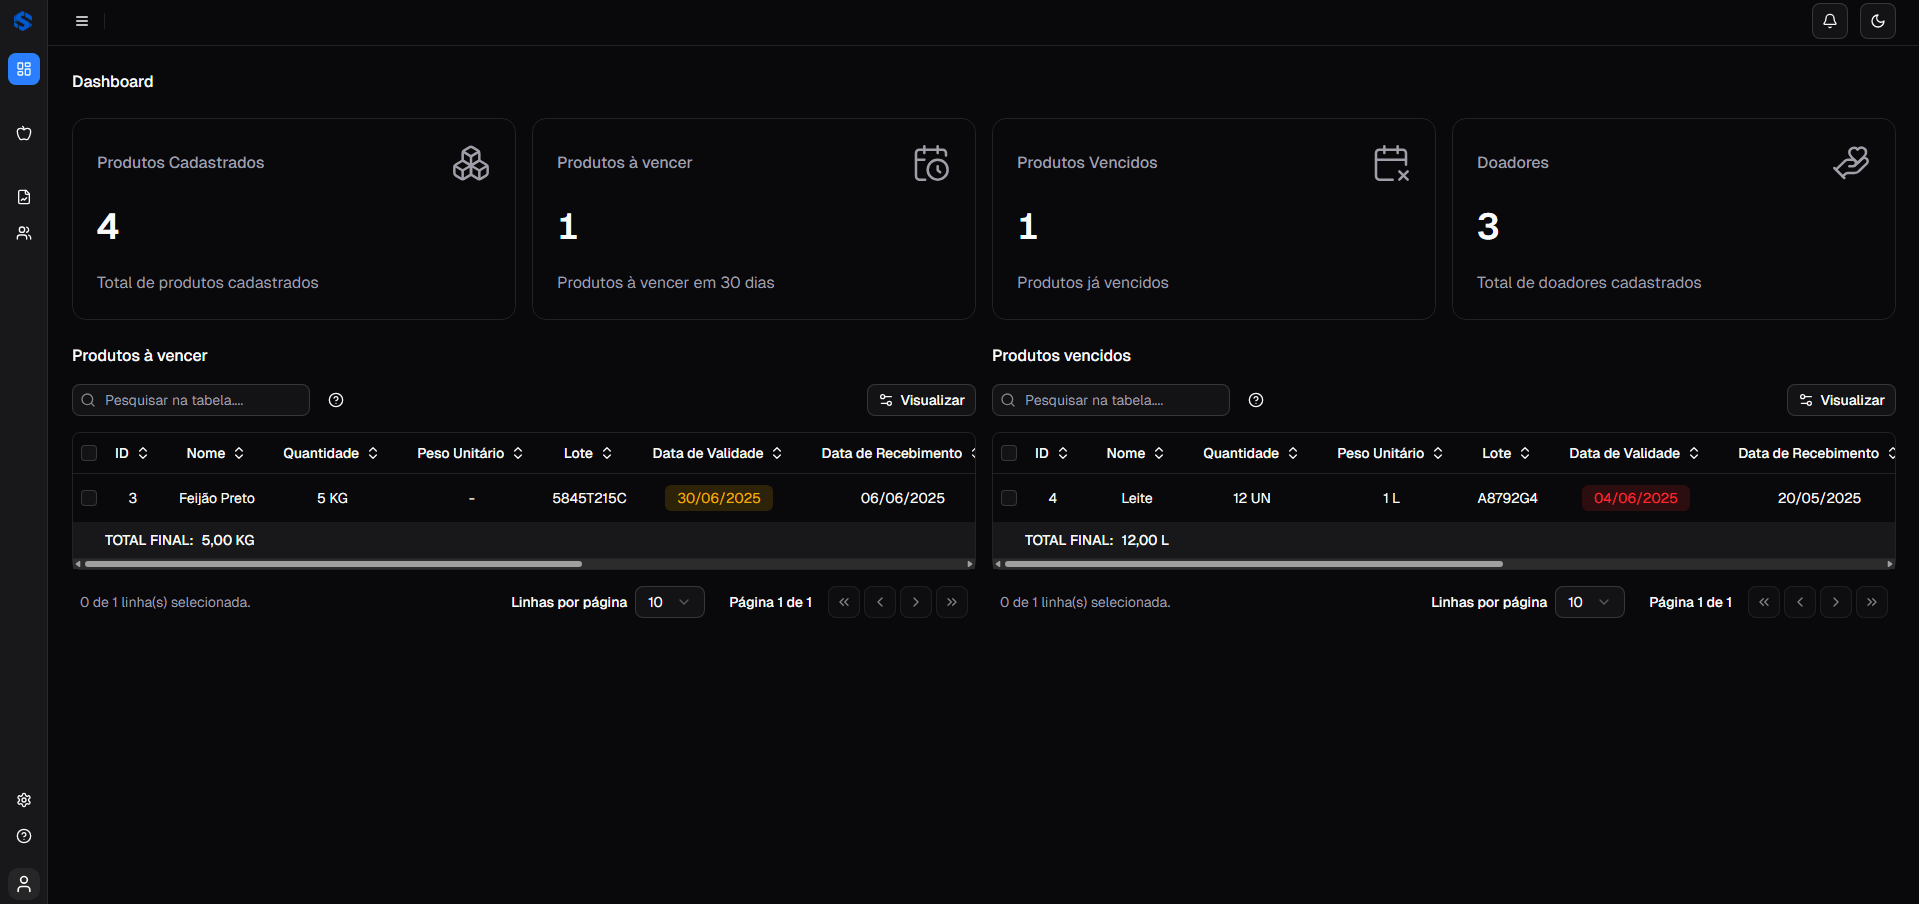
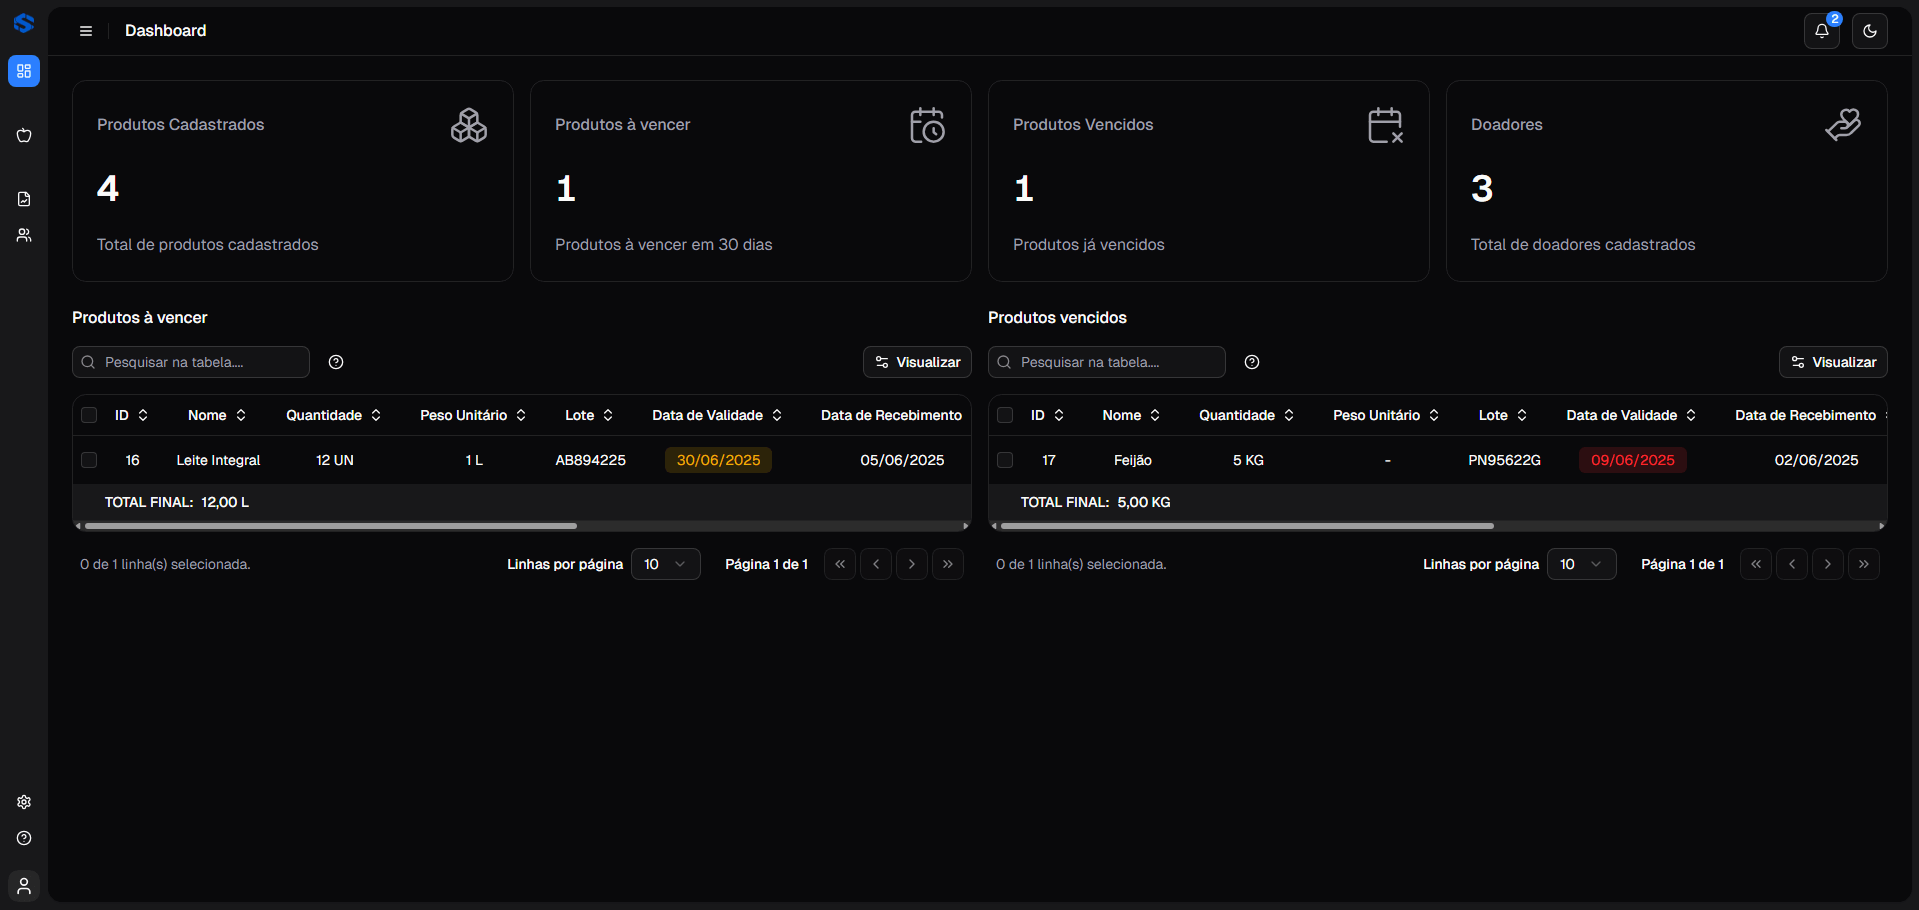
fix: melhorias no layout do sistema e corrige bugs

diff --git a/components/layout/site-header.tsx b/components/layout/site-header.tsx
@@ -1,18 +1,26 @@
+"use client";
+
 import { Separator } from "@/components/ui/separator";
 import { SidebarTrigger } from "@/components/ui/sidebar";
 import { ThemeModeButton } from "@/components/shared/theme-mode-button";
 import { AlertButton } from "@/components/alerts/alert-button";
+import { pageTitles } from "@/routes";
+import { usePathname } from "next/navigation";
 
 export function SiteHeader() {
+  const pathname = usePathname();
+  const headerTitle = pageTitles[pathname] || "SmartStock";
+
   return (
     <header className="flex h-(--header-height) shrink-0 items-center gap-2 border-b transition-[width,height] ease-linear group-has-data-[collapsible=icon]/sidebar-wrapper:h-(--header-height)">
       <div className="flex w-full items-center justify-between gap-1 px-4 lg:gap-2 lg:px-6">
-        <div className="flex items-center">
-          <SidebarTrigger className="-ml-1" />
+        <div className="flex items-center gap-2">
+          <SidebarTrigger className="" />
           <Separator
             orientation="vertical"
-            className="mx-2 data-[orientation=vertical]:h-4"
+            className="data-[orientation=vertical]:h-4"
           />
+          <h1 className="text-base font-medium ml-2">{headerTitle}</h1>
         </div>
         <div className="flex items-center gap-3">
           <AlertButton></AlertButton>

diff --git a/components/layout/app-sidebar.tsx b/components/layout/app-sidebar.tsx
@@ -10,7 +10,6 @@ import {
   SidebarContent,
   SidebarFooter,
   SidebarHeader,
-  SidebarRail,
   SidebarMenuButton,
 } from "@/components/ui/sidebar";
 import { NavBottom } from "@/components/layout/nav-bottom";
@@ -46,7 +45,7 @@ const data = {
 
 export function AppSidebar({ ...props }: React.ComponentProps<typeof Sidebar>) {
   return (
-    <Sidebar collapsible="icon" {...props}>
+    <Sidebar collapsible="icon" {...props} className="border-0!">
       <SidebarHeader>
         <SidebarMenuButton
           asChild
@@ -54,7 +53,7 @@ export function AppSidebar({ ...props }: React.ComponentProps<typeof Sidebar>) {
         >
           <Link href="/dashboard">
             <LogoWithText
-              imageSize="size-5"
+              imageSize="size-5 min-w-5"
               textSize="text-base"
               containerClasses="justify-around! flex-nowrap!"
             />
@@ -70,7 +69,6 @@ export function AppSidebar({ ...props }: React.ComponentProps<typeof Sidebar>) {
       <SidebarFooter>
         <UserButton />
       </SidebarFooter>
-      <SidebarRail />
     </Sidebar>
   );
 }

diff --git a/components/tables/data-table-reports.tsx b/components/tables/data-table-reports.tsx
@@ -207,7 +207,7 @@ export function DataTableReport<TData>({
       </div>
 
       <div
-        className="styleForPrint overflow-auto rounded-md border"
+        className="styleForPrint rounded-xl border overflow-auto"
         ref={contentRef}
       >
         <div className="showForPrint space-y-3 mb-6">
@@ -233,10 +233,10 @@ export function DataTableReport<TData>({
         <Table className="overflow-hidden!">
           <TableHeader>
             {table.getHeaderGroups().map((headerGroup) => (
-              <TableRow key={headerGroup.id}>
+              <TableRow key={headerGroup.id} className="text-center!">
                 {headerGroup.headers.map((header) => {
                   return (
-                    <TableHead key={header.id}>
+                    <TableHead key={header.id} className="text-center!">
                       {header.isPlaceholder
                         ? null
                         : flexRender(

diff --git a/app/(protected)/settings/page.tsx b/app/(protected)/settings/page.tsx
@@ -12,10 +12,9 @@ export default function SettingsPage() {
     <div className="flex flex-1 flex-col">
       <div className="@container/main flex flex-1 flex-col gap-2">
         <div className="flex flex-col gap-4 py-4 md:gap-6 md:py-6">
-          <h1 className="text-base font-medium px-4 lg:px-6">Configurações</h1>
           <div className="px-4 md:px-6">
             <div className="flex justify-center">
-              <div className="grid gap-6 border rounded-md p-10 w-full md:max-w-[650px]">
+              <div className="grid gap-6 border rounded-xl p-10 w-full md:max-w-[650px]">
                 <div className="grid gap-2">
                     <h2 className="text-lg font-semibold flex items-center">
                       Editar Configurações da Conta

diff --git a/components/tables/data-table-products.tsx b/components/tables/data-table-products.tsx
@@ -127,14 +127,14 @@ export function DataTableProducts<TData, TValue>({
         )}
       </div>
 
-      <div className="rounded-md border">
+      <div className="rounded-xl border overflow-hidden">
         <Table>
           <TableHeader>
             {table.getHeaderGroups().map((headerGroup) => (
-              <TableRow key={headerGroup.id} className="text-center">
+              <TableRow key={headerGroup.id} className="text-center!">
                 {headerGroup.headers.map((header) => {
                   return (
-                    <TableHead key={header.id}>
+                    <TableHead key={header.id} className="text-center!">
                       {header.isPlaceholder
                         ? null
                         : flexRender(

diff --git a/components/tables/data-table-users.tsx b/components/tables/data-table-users.tsx
@@ -149,14 +149,14 @@ export function DataTableUsers<TData, TValue>({
         )}
       </div>
 
-      <div className="rounded-md border">
+      <div className="rounded-xl border overflow-hidden">
         <Table>
           <TableHeader>
             {table.getHeaderGroups().map((headerGroup) => (
-              <TableRow key={headerGroup.id} className="text-center">
+              <TableRow key={headerGroup.id} className="text-center!">
                 {headerGroup.headers.map((header) => {
                   return (
-                    <TableHead key={header.id}>
+                    <TableHead key={header.id} className="text-center!">
                       {header.isPlaceholder
                         ? null
                         : flexRender(

diff --git a/components/shared/theme-selector.tsx b/components/shared/theme-selector.tsx
@@ -15,12 +15,12 @@ import {
 
 const DEFAULT_THEMES = [
   {
-    name: "Padrão",
-    value: "default",
+    name: "Azul",
+    value: "blue",
   },
   {
     name: "Neutro",
-    value: "blue",
+    value: "neutral",
   },
   {
     name: "Verde",
@@ -34,12 +34,12 @@ const DEFAULT_THEMES = [
 
 const SCALED_THEMES = [
   {
-    name: "Padrão",
-    value: "default-scaled",
+    name: "Azul",
+    value: "blue-scaled",
   },
   {
     name: "Neutro",
-    value: "blue-scaled",
+    value: "neutral-scaled",
   },
   {
     name: "Verde",

diff --git a/app/(protected)/users/page.tsx b/app/(protected)/users/page.tsx
@@ -22,9 +22,6 @@ export default async function UserRegistrationPage() {
             <div className="px-4 pt-4">
               <MessageSuccess message="Você tem permissão para ver este conteúdo!" />
             </div>
-            <h1 className="text-base font-medium px-4 lg:px-6">
-              Cadastro de Usuários
-            </h1>
             <div className="px-4 md:px-6 ">
               <DataTableUsers addButton={true} data={users} columns={columnsTableUsers} />
             </div>

diff --git a/app/(protected)/stocks/food/page.tsx b/app/(protected)/stocks/food/page.tsx
@@ -18,9 +18,6 @@ export default async function StockFoodPage() {
       <div className="flex flex-1 flex-col">
         <div className="@container/main flex flex-1 flex-col gap-2">
           <div className="flex flex-col gap-4 py-4 md:gap-6 md:py-6 ">
-            <h1 className="text-base font-medium px-4 lg:px-6">
-              Estoque de Produtos
-            </h1>
             <div className="px-4 md:px-6 ">
               <DataTableProducts
                 addButton={true}

diff --git a/components/product/add-product-dialog.tsx b/components/product/add-product-dialog.tsx
@@ -24,7 +24,7 @@ export function AddProductDialog({}) {
           <span className="hidden lg:inline">Criar Produto</span>
         </Button>
       </DialogTrigger>
-      <DialogContent className="sm:max-w-[550px] sm:max-h-[90vh] max-h-[80vh] overflow-auto">
+      <DialogContent className="sm:max-w-[550px] sm:max-h-[90vh] max-h-[80vh] rounded-xl overflow-auto">
         <DialogHeader>
           <DialogTitle>Criar Produto</DialogTitle>
           <DialogDescription>

diff --git a/components/user/add-user-dialog.tsx b/components/user/add-user-dialog.tsx
@@ -24,7 +24,7 @@ export function AddUserDialog({}) {
           <span className="hidden lg:inline">Criar Usuário</span>
         </Button>
       </DialogTrigger>
-      <DialogContent className="sm:max-w-[550px] sm:max-h-[90vh] max-h-[80vh] overflow-auto">
+      <DialogContent className="sm:max-w-[550px] sm:max-h-[90vh] max-h-[80vh] rounded-xl overflow-auto">
         <DialogHeader>
           <DialogTitle>Criar Usuário</DialogTitle>
           <DialogDescription>

diff --git a/components/user/edit-user-dialog.tsx b/components/user/edit-user-dialog.tsx
@@ -40,7 +40,7 @@ export function EditUserDialog({ rowItemId, onOpenChange }: AddEditFormProps) {
           </div>
         </Button>
       </DialogTrigger>
-      <DialogContent className="sm:max-w-[550px] sm:max-h-[90vh] max-h-[80vh] overflow-auto">
+      <DialogContent className="sm:max-w-[550px] sm:max-h-[90vh] max-h-[80vh] rounded-xl overflow-auto">
         <DialogHeader>
           <DialogTitle>Editar Usuário</DialogTitle>
           <DialogDescription>
